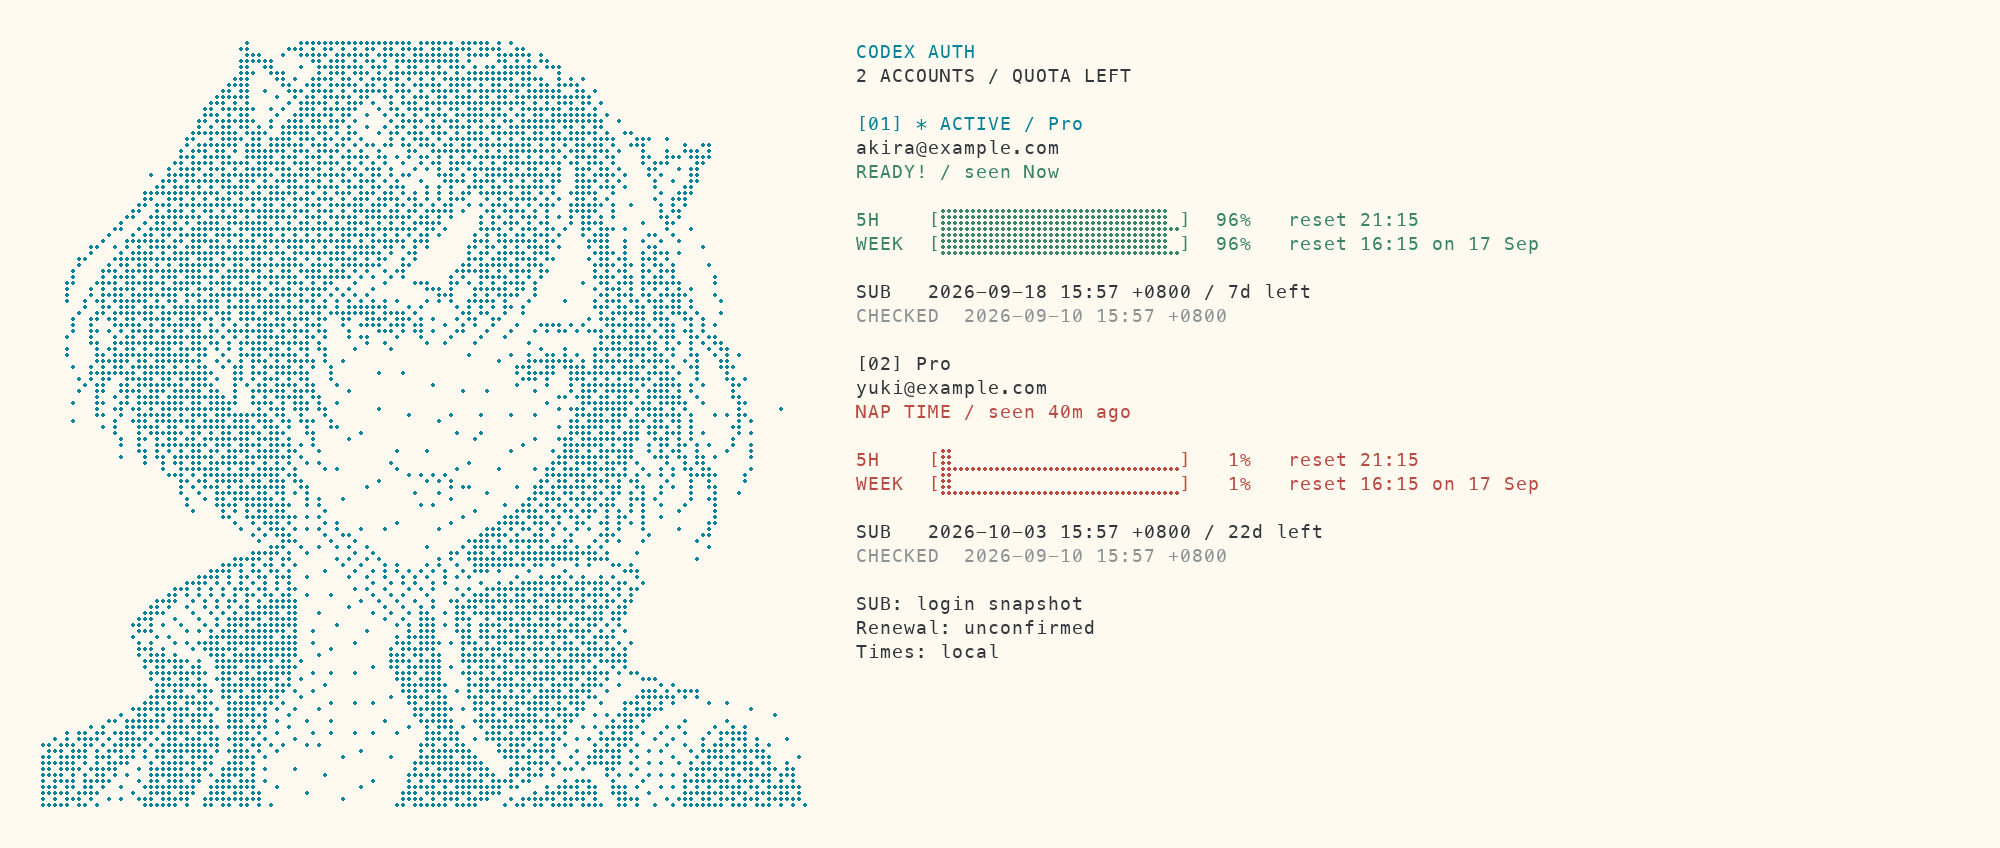
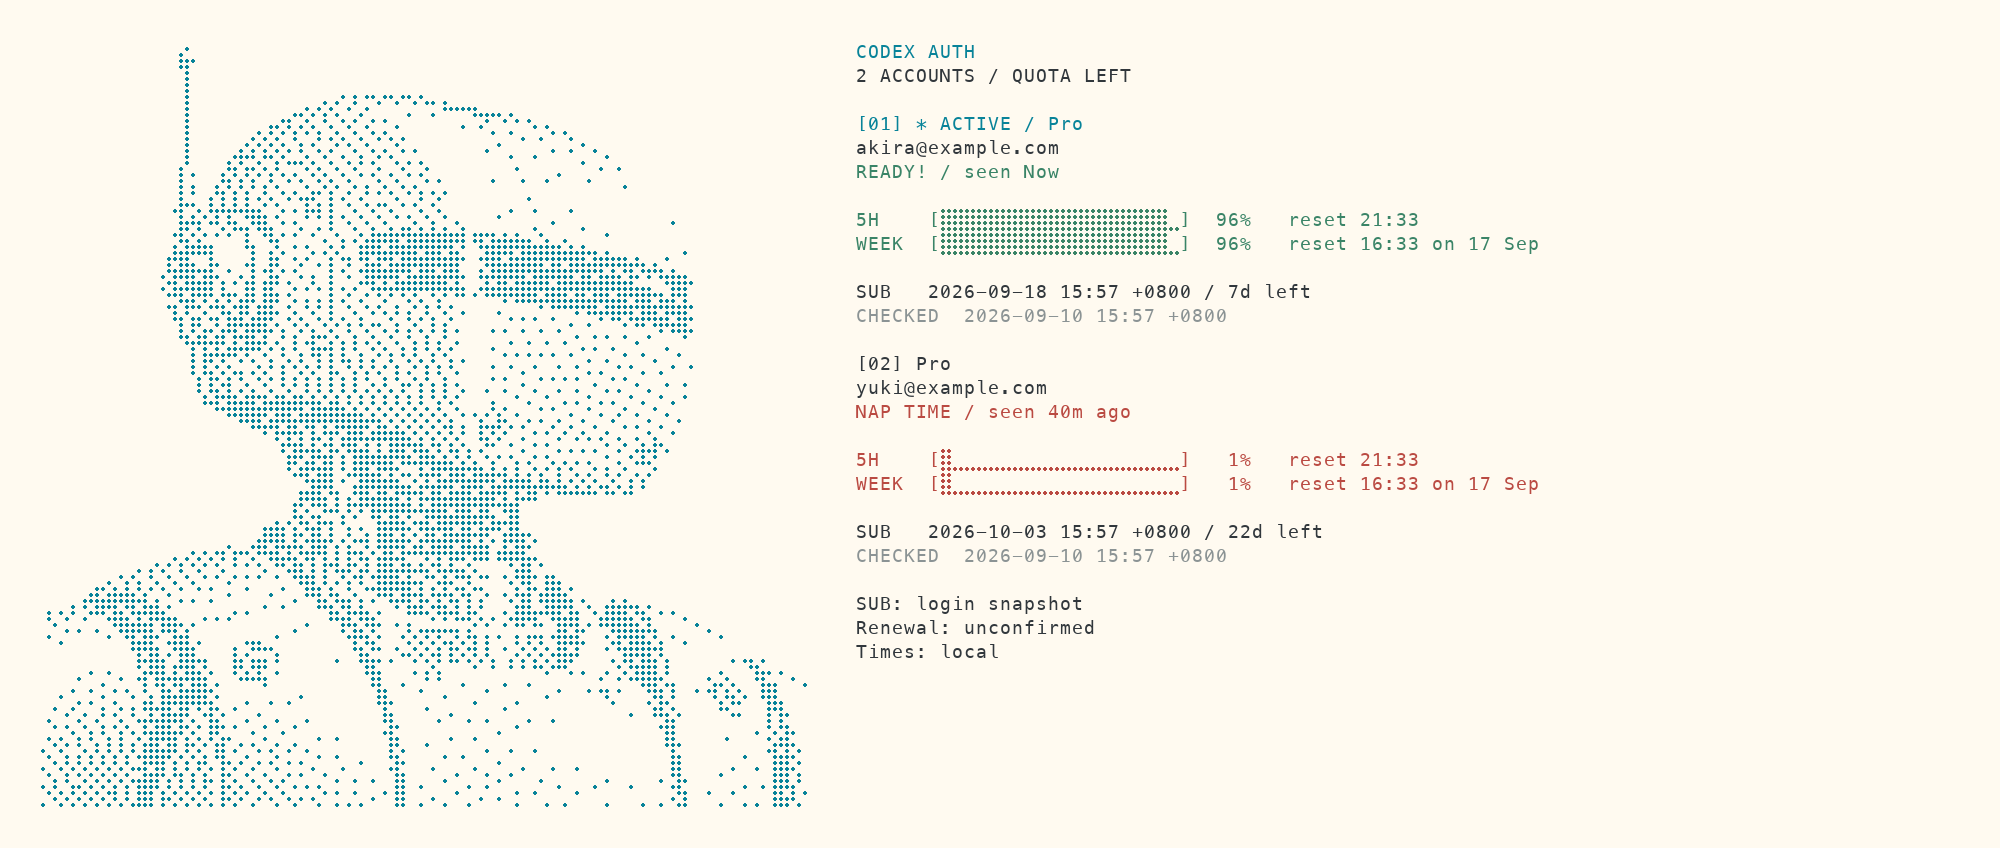
style: use retro space robot artwork

Changed region(s): [[0.031, 0.0307, 0.403, 0.9505]]

diff --git a/scripts/generate_portrait.py b/scripts/generate_portrait.py
@@ -17,7 +17,7 @@ def encode(source: Image.Image, columns: int) -> str:
     # 2x4 dots per character; square dots assume conventional 1:2 terminal cells.
     size = columns * 2
     gray = source.convert("L").resize((size, size), Image.Resampling.LANCZOS)
-    # Keep highlights clean while retaining the hair's fine tonal structure.
+    # Keep highlights clean while retaining the illustration's fine tonal structure.
     gray = gray.point(lambda value: 255 - int(((255 - value) / 255) ** 1.15 * 245))
     bitmap = gray.convert("1", dither=Image.Dither.FLOYDSTEINBERG)
     lines = []

diff --git a/README.md b/README.md
@@ -1,15 +1,13 @@
 # Codex Auth
 
-![command list](https://github.com/user-attachments/assets/6c13a2d6-f9da-47ea-8ec8-0394fc072d40)
-
 `codex-auth` is a command-line tool for switching Codex accounts.
 
 ## This fork: halftone portrait and subscription dates
 
 This branch is based on upstream **v0.2.10**. `codex-auth list` pairs a detailed
-anime portrait with an uncluttered account dashboard. The illustration uses
-cyan Braille halftone dots: eight dots per character, up to a **128 x 128 dot**
-portrait, rather than a small punctuation face. Quota bars use the same dot style.
+retro space-exploration robot with an uncluttered account dashboard.
+The illustration uses cyan Braille halftone dots: eight dots per character, up to a **128 x 128 dot**
+portrait. Quota bars use the same dot style.
 
 ![Halftone account dashboard with fictional accounts](docs/assets/list-preview.png)
 
